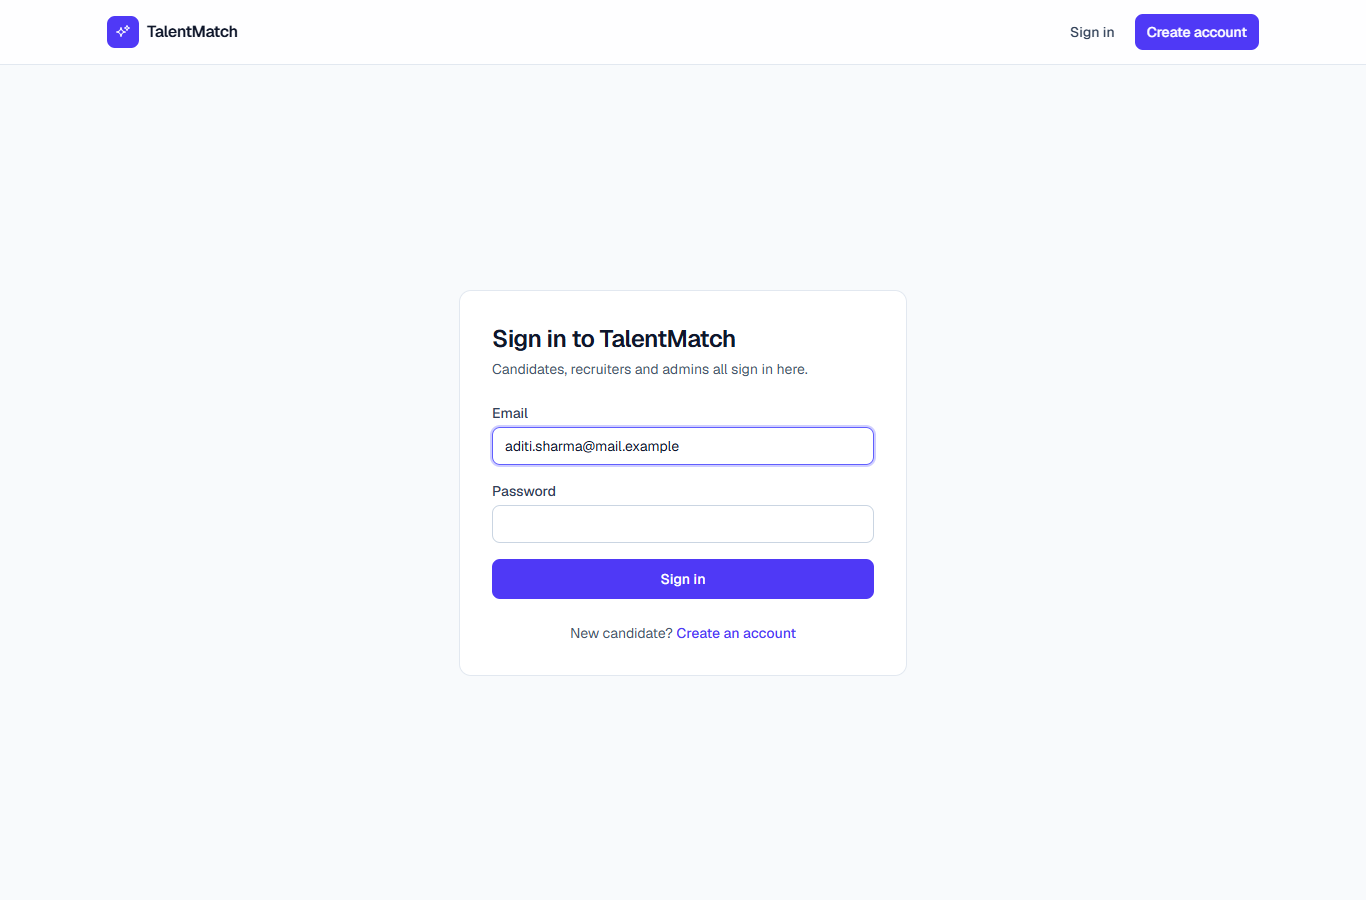
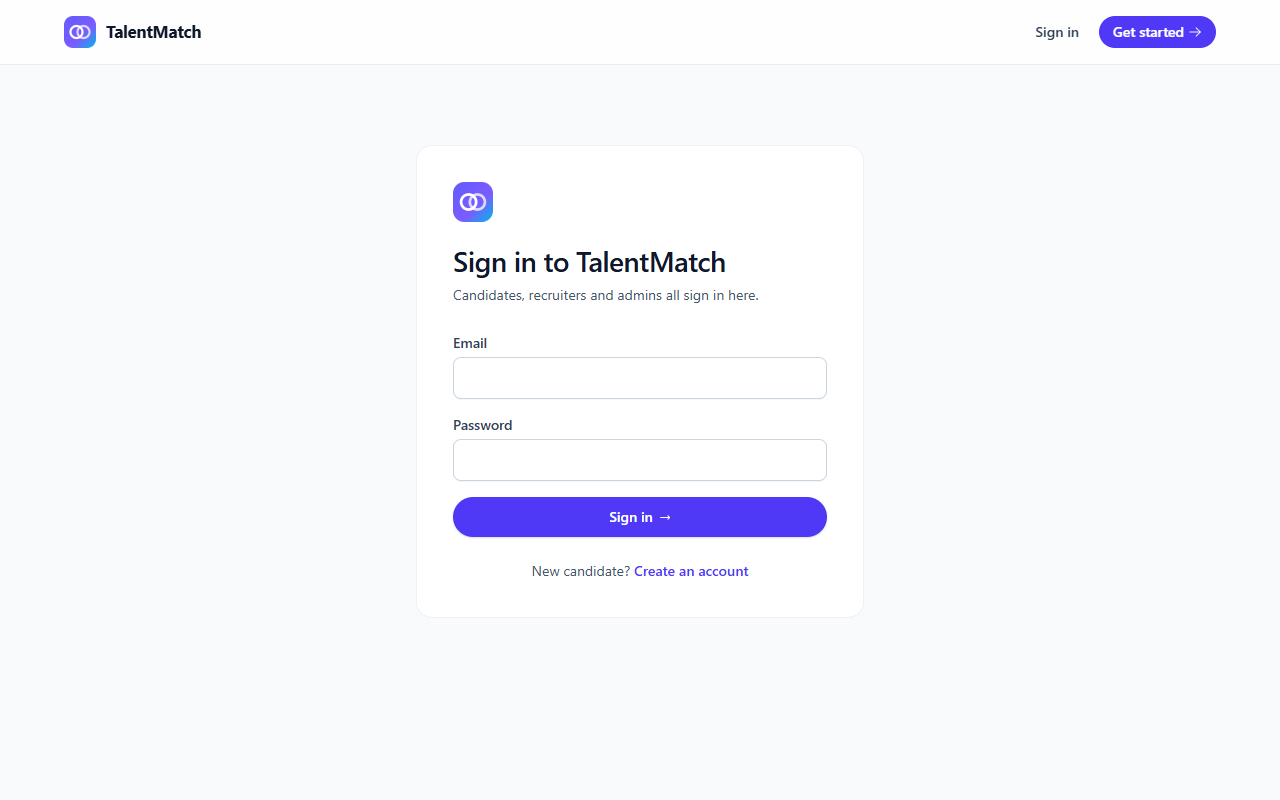
Update screenshots for the restyled UI
Replace the login, skill gap, ranked applicants and admin dashboard
screenshots (desktop and mobile) and add landing page, mobile login and
mobile job detail screenshots to the project report.

diff --git a/docs/project-report.md b/docs/project-report.md
@@ -524,6 +524,14 @@ Configuration comes only from environment variables (`DATABASE_URL`, `AUTH_JWT_S
 
 All screenshots are in [`docs/screenshots/final/`](screenshots/final/) and were taken from the final build with the seeded demo data.
 
+The UI was later restyled (off-white page, navy text, one #635BFF accent, Inter font, soft card shadows, angled gradient on the landing and sign-in pages). Screenshots 01, 06, 11, 25, 29, 30 and 31 to 34 show the new style; the others were taken before the restyle and show the same pages and data with the earlier colours.
+
+### Landing page
+
+| | |
+|---|---|
+| ![Landing desktop](screenshots/final/31-landing-desktop.png) **31. Landing page (desktop)** | ![Landing mobile](screenshots/final/32-landing-mobile.png) **32. Landing page (mobile)** |
+
 ### Authentication
 
 | | |
@@ -563,6 +571,7 @@ All screenshots are in [`docs/screenshots/final/`](screenshots/final/) and were 
 | | | |
 |---|---|---|
 | ![Mobile jobs](screenshots/final/28-mobile-candidate-job-browsing.png) **28. Candidate jobs** | ![Mobile ranked](screenshots/final/29-mobile-recruiter-ranked-applicants.png) **29. Ranked applicants** | ![Mobile admin](screenshots/final/30-mobile-admin-dashboard.png) **30. Admin dashboard** |
+| ![Mobile login](screenshots/final/33-mobile-login.png) **33. Sign in** | ![Mobile job detail](screenshots/final/34-mobile-candidate-job-detail.png) **34. Candidate job detail and skill gap** | |
 
 ## 13. Testing results
 
